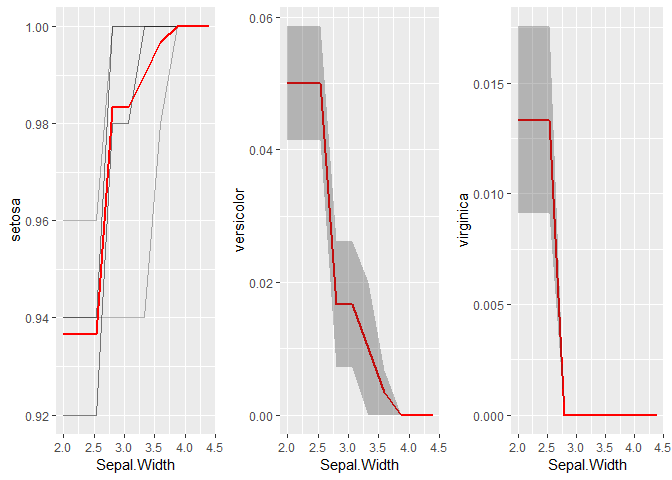
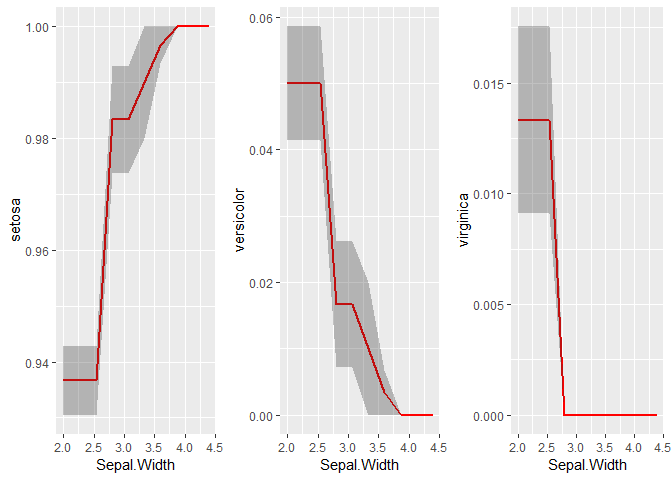
update readme file

diff --git a/README.md b/README.md
@@ -66,8 +66,10 @@ subset_iris <- iris[10:15, -5]
 ice_SW <- ice_cal(forest, Sepal.Width, iris, subset_iris, grid.resolution=10, trim.outliers=FALSE)
 
 ice_SW$variable <- rep(1:6,10)
-f1 <- ggplot(data=ice_SW, aes_string(x=ice_SW$Sepal.Width, y="setosa")) +geom_line(aes(group=ice_SW$variable), alpha=0.3) + 
-  stat_summary(fun.y = mean, geom = "line", col="red", size=1)+xlab("Sepal.Width")+ theme(legend.position="none")+ylab("setosa")
+f1 <-  ggplot(data = ice_SW, aes_string(x = ice_SW$Sepal.Width, y = ice_SW$setosa)) +
+  stat_summary(fun.y = mean, geom = "line", col = "red", size = 1) + xlab("Sepal.Width") +
+  stat_summary(fun.data = mean_cl_normal, geom = "ribbon", fun.args = list(mult = 1), alpha = 0.3) +
+  theme(legend.position = "none") + ylab("setosa")
 
 f2 <- ggplot(data = ice_SW, aes_string(x = ice_SW$Sepal.Width, y = ice_SW$versicolor)) +
   stat_summary(fun.y = mean, geom = "line", col = "red", size = 1) + xlab("Sepal.Width") +
